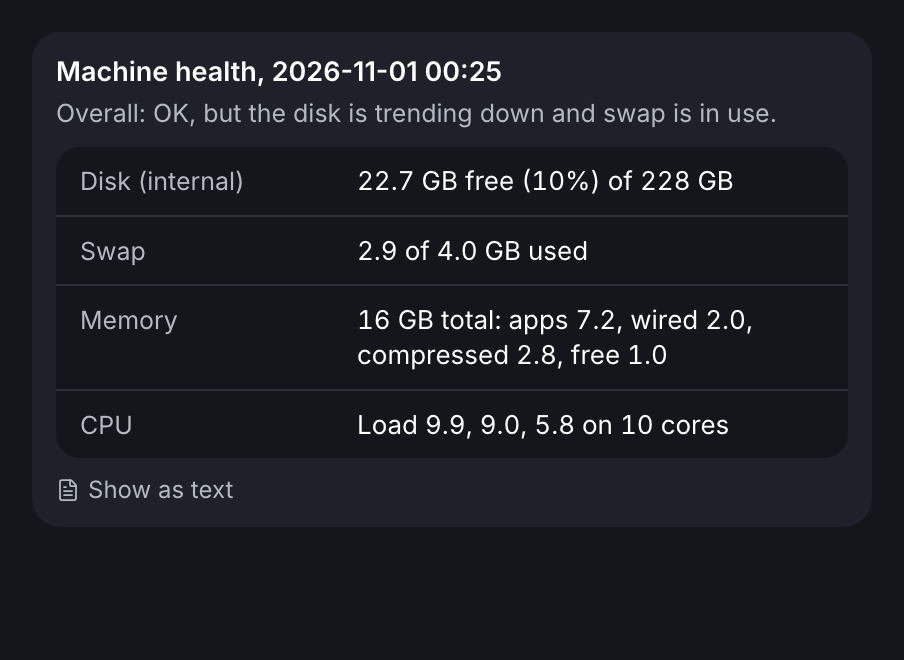
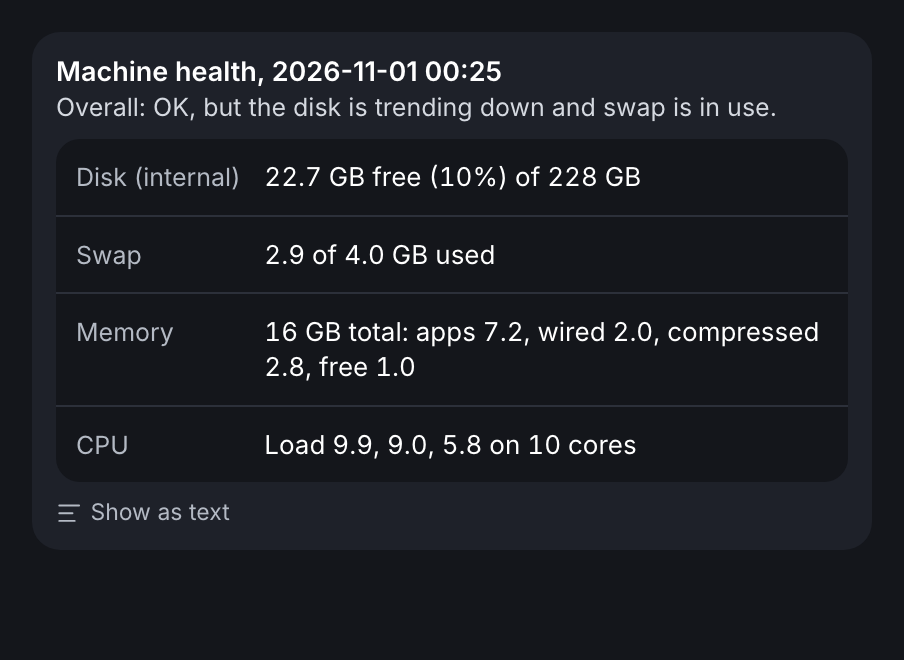
Result card v2: apply the designer's Info card fixes (fitted label column, 10 pt rows, secondary-ink sub line, plain link arrow, text.alignleft) on desktop and iOS

diff --git a/apps/ios/Kit/Sources/KithUI/Thread/RichCards.swift b/apps/ios/Kit/Sources/KithUI/Thread/RichCards.swift
@@ -434,51 +434,64 @@ struct ResultCard: View {
 
     private var info: some View {
         VStack(alignment: .leading, spacing: 8) {
-            VStack(alignment: .leading, spacing: 2) {
+            // 1 pt under the title, 7 pt above the group (the card's 8 less the 1 the sub line pulls back).
+            VStack(alignment: .leading, spacing: 1) {
                 Text(model.title).kithText(.secondary).fontWeight(.semibold).foregroundStyle(Palette.ink)
                 if !model.sub.isEmpty {
-                    Text(model.sub).font(.footnote).foregroundStyle(Palette.muted)
+                    Text(model.sub).font(.footnote).foregroundStyle(Palette.ink2)
                 }
             }
             .fixedSize(horizontal: false, vertical: true)
-            WhiteGroup {
-                ForEach(Array(model.rows.enumerated()), id: \.offset) { _, row in
-                    HStack(alignment: .firstTextBaseline, spacing: 12) {
-                        if !row.label.isEmpty {
+            .padding(.bottom, model.sub.isEmpty ? 0 : -1)
+            // The label column sizes to the longest label; dividers run edge to edge past the 10 pt side padding.
+            Grid(alignment: .leadingFirstTextBaseline, horizontalSpacing: 12, verticalSpacing: 0) {
+                ForEach(Array(model.rows.enumerated()), id: \.offset) { index, row in
+                    if index > 0 { Palette.line.frame(height: 1).padding(.horizontal, -10) }
+                    GridRow {
+                        if row.label.isEmpty {
+                            Text(row.value).kithText(.secondary).foregroundStyle(Palette.ink)
+                                .fixedSize(horizontal: false, vertical: true)
+                                .gridCellColumns(2)
+                                .frame(maxWidth: .infinity, alignment: .leading)
+                        } else {
                             Text(row.label).font(.footnote).foregroundStyle(Palette.muted)
-                                .frame(width: 92, alignment: .leading)
+                            Text(row.value).kithText(.secondary).foregroundStyle(Palette.ink)
+                                .fixedSize(horizontal: false, vertical: true)
+                                .frame(maxWidth: .infinity, alignment: .leading)
                         }
-                        Text(row.value).kithText(.secondary).foregroundStyle(Palette.ink)
-                            .frame(maxWidth: .infinity, alignment: .leading)
                     }
-                    .fixedSize(horizontal: false, vertical: true)
-                    .padding(.horizontal, 12)
-                    .padding(.vertical, 8)
+                    .padding(.vertical, 10)
                     .accessibilityElement(children: .combine)
                 }
                 ForEach(model.links) { link in
-                    Button { openURL(link.url) } label: {
-                        HStack(spacing: 8) {
-                            Text(link.label).kithText(.secondary).foregroundStyle(Palette.ink).lineLimit(1)
-                            Spacer(minLength: 0)
-                            Image(systemName: "arrow.up.right").font(.system(size: 9)).foregroundStyle(Palette.muted)
+                    Palette.line.frame(height: 1).padding(.horizontal, -10)
+                    GridRow {
+                        Button { openURL(link.url) } label: {
+                            HStack(spacing: 8) {
+                                Text(link.label).font(.footnote).foregroundStyle(Palette.ink2).lineLimit(1)
+                                Spacer(minLength: 0)
+                                Image(systemName: "arrow.up.right").font(.system(size: 11)).foregroundStyle(Palette.faint)
+                            }
+                            .padding(.vertical, 10)
+                            .contentShape(Rectangle())
                         }
-                        .padding(.horizontal, 12)
-                        .padding(.vertical, 8)
-                        .contentShape(Rectangle())
+                        .buttonStyle(.plain)
+                        .gridCellColumns(2)
+                        .accessibilityHint(link.url.host() ?? link.label)
                     }
-                    .buttonStyle(.plain)
-                    .accessibilityHint(link.url.host() ?? link.label)
                 }
             }
+            .padding(.horizontal, 10)
+            .frame(maxWidth: .infinity, alignment: .leading)
+            .background(Palette.background, in: RoundedRectangle(cornerRadius: 12, style: .continuous))
             Button(action: showText) {
                 HStack(spacing: 4) {
-                    Image(systemName: "doc.text").font(.system(size: 10))
-                    Text("Show as text").font(.caption)
+                    Image(systemName: "text.alignleft").font(.system(size: 11))
+                    Text("Show as text").font(.caption).fontWeight(.medium)
                 }
                 .foregroundStyle(Palette.muted)
-                .frame(minHeight: 28)
-                .contentShape(Rectangle())
+                // The tap area stays finger-sized without the 8 pt gap under the group growing.
+                .contentShape(Rectangle().inset(by: -8))
             }
             .buttonStyle(.plain)
         }

diff --git a/apps/desktop/src/renderer/views/thread/rich-card.css b/apps/desktop/src/renderer/views/thread/rich-card.css
@@ -299,18 +299,39 @@
   white-space: normal;
   overflow-wrap: anywhere;
 }
+.rc-card.info {
+  --rc-ink-2: #3a3d45;
+  --rc-faint: #b4b8c2;
+}
+@media (prefers-color-scheme: dark) {
+  .rc-card.info {
+    --rc-ink-2: #d5d9e0;
+    --rc-faint: #5b6170;
+  }
+}
+/* 1 pt under the title and 7 pt above the group, on top of the card's 8 pt gap. */
 .rc-sub {
-  margin-top: -4px;
-  color: var(--kith-muted);
+  margin: -7px 0 -1px;
+  color: var(--rc-ink-2);
   font-size: 12.5px;
   line-height: 1.35;
   overflow-wrap: anywhere;
 }
+/* The label column fits the card's longest label (52 pt up to 40% of the card); rows share it through subgrid. */
+.rc-info {
+  display: grid;
+  grid-template-columns: fit-content(40%) 1fr;
+  column-gap: 12px;
+  border-radius: 12px;
+  background: var(--kith-ground);
+  overflow: hidden;
+}
 .rc-info-row {
-  display: flex;
-  gap: 12px;
+  display: grid;
+  grid-column: 1 / -1;
+  grid-template-columns: subgrid;
   align-items: baseline;
-  padding: 8px 12px;
+  padding: 10px;
   font-size: 13px;
   line-height: 1.35;
   text-align: left;
@@ -319,25 +340,33 @@
   border-top: 1px solid var(--kith-line);
 }
 .rc-info-label {
-  flex: none;
-  width: 34%;
-  min-width: 84px;
+  min-width: 52px;
   color: var(--kith-muted);
   font-size: 12.5px;
   overflow-wrap: anywhere;
 }
 .rc-info-value {
-  flex: 1;
   min-width: 0;
   font-variant-numeric: tabular-nums;
   overflow-wrap: anywhere;
 }
+.rc-info-value.alone {
+  grid-column: 1 / -1;
+}
 .rc-info-link {
+  display: flex;
+  gap: 12px;
   align-items: center;
-  width: 100%;
+  justify-content: space-between;
 }
 .rc-info-link:hover {
   background: var(--kith-panel);
+}
+.rc-info-link .rc-info-value {
+  flex: 1;
+  color: var(--rc-ink-2);
+  font-size: 12.5px;
+  font-variant-numeric: normal;
 }
 .rc-as-text-link {
   display: inline-flex;
@@ -345,7 +374,7 @@
   align-items: center;
   align-self: flex-start;
   color: var(--kith-muted);
-  font: 12px / 1.3 var(--font-ui);
+  font: 500 11.5px / 1.3 var(--font-ui);
 }
 /* The Plan card (DESIGN.md "Plan"): a 4 pt bar in the agent pair, then steps that change in place. */
 .rc-mono {

diff --git a/apps/desktop/src/renderer/views/thread/RichCards.tsx b/apps/desktop/src/renderer/views/thread/RichCards.tsx
@@ -191,25 +191,25 @@ export function ResultCard({ card, showText }: { card: RichCard; showText: () =>
   if (!view) return null
   if (view.rows.length) {
     return (
-      <section className="rc-card" aria-label={view.title}>
+      <section className="rc-card info" aria-label={view.title}>
         <div className="rc-head"><span className="rc-name wrap">{view.title}</span></div>
         {view.sub ? <div className="rc-sub">{view.sub}</div> : null}
-        <div className="rc-group">
+        <div className="rc-info">
           {view.rows.map((r, i) => (
             <div key={i} className="rc-info-row">
               {r.label ? <span className="rc-info-label">{r.label}</span> : null}
-              <span className="rc-info-value">{r.value}</span>
+              <span className={r.label ? 'rc-info-value' : 'rc-info-value alone'}>{r.value}</span>
             </div>
           ))}
           {view.links.map((l) => (
             <button key={l.url} className="rc-info-row rc-info-link" title={l.url} onClick={() => window.kith.app.openExternal(l.url)}>
               <span className="rc-info-value">{l.label}</span>
-              <Icon name="arrow.up.right.square" size={11} color="var(--kith-muted)" />
+              <Icon name="arrow.up.right" size={11} color="var(--rc-faint)" />
             </button>
           ))}
         </div>
         <button className="rc-as-text-link" onClick={showText}>
-          <Icon name="doc.text" size={10} color="var(--kith-muted)" />
+          <Icon name="text.alignleft" size={11} color="var(--kith-muted)" />
           Show as text
         </button>
       </section>

diff --git a/apps/ios/Kit/Sources/KithKit/Design/Tokens.swift b/apps/ios/Kit/Sources/KithKit/Design/Tokens.swift
@@ -11,6 +11,10 @@ public extension Palette {
     static let muted = Color(light: 0x6B7280, dark: 0xB4BAC4)
     /// Secondary text over the sky.
     static let mutedOnSky = Color(light: 0x4B5160, dark: 0xC3C8D2)
+    /// Secondary ink: the Info card's sub line and link address (darker than muted).
+    static let ink2 = Color(light: 0x3A3D45, dark: 0xD5D9E0)
+    /// The Info card's link arrow.
+    static let faint = Color(light: 0xB4B8C2, dark: 0x5B6170)
     static let line = Color(light: 0xECEDF2, dark: 0x2C303A)
     static let panel = Color(light: 0xF6F6FA, dark: 0x1E2129)
     /// The lighter violet, for accent text and fills on dark grounds.

diff --git a/apps/desktop/src/renderer/components/icon-fallbacks.ts b/apps/desktop/src/renderer/components/icon-fallbacks.ts
@@ -33,6 +33,7 @@ const map: Record<string, IconNode> = {
   'arrow.triangle.2.circlepath': L.RefreshCw,
   'arrow.triangle.branch': L.GitBranch,
   'arrow.up': L.ArrowUp,
+  'arrow.up.right': L.ArrowUpRight,
   'arrow.up.right.square': L.SquareArrowOutUpRight,
   'arrowshape.turn.up.left': L.Reply,
   'apple.logo': appleLogo,
@@ -169,6 +170,7 @@ const map: Record<string, IconNode> = {
   'stop.circle': L.CircleStop,
   'stop.fill': L.Square,
   terminal: L.Terminal,
+  'text.alignleft': L.AlignLeft,
   'text.bubble': L.MessageSquareText,
   tray: L.Inbox,
   'tray.and.arrow.up': L.ArchiveRestore,

diff --git a/docs/design/DESIGN.md b/docs/design/DESIGN.md
@@ -262,10 +262,14 @@ a design decision). At most one card per reply. Boards: `docs/design/mocks/repli
 - **Plan** (report): title, "3 of 5" in mono, a 4 pt progress bar in the agent pair, steps updating in place (done =
   check, muted; now = spinner, semibold; next = ring, light). Replaces "done X" messages.
 - **Result** (report): what came out with its actions: icon tile, title, mono facts (#172 · 3 files · +84 / −12), a
-  green word for checks, one or two buttons (Open, Diff). Payload v2 draws the Info card (morecards.jpg panel 2): the
-  reply's heading, one sub line (muted), then a white group of read-only Key: value rows (label muted left, value
-  right, hairlines, no chevrons, at most five), a link row only if the reply had a link, "Show as text" bottom-left.
-  v1 (the mono facts above) still draws for old entries.
+  green word for checks, one or two buttons (Open, Diff). Payload v2 draws the **Info** card (morecards.jpg panel 2): a title and its facts from the
+  reply's heading and Key: value lines. Panel grey. Title Inter 600 13.5; one sub line 12.5 secondary ink `#3A3D45`
+  (not muted), 1 pt under the title, 7 pt above the group. White group, rows min 38 pt, padding 10 / 10, hairline
+  between rows; label column sized to the card's longest label (min 52, max ~40% of the card), 12 gap, label muted
+  12.5, value ink 13, tabular figures on values only; a row with no label draws its value across both columns. Link
+  row only if the reply had a link: address 12.5 secondary ink, plain arrow.up.right (11, faint `#B4B8C2`) at the
+  right, never a boxed arrow. "Show as text" 8 pt under the group, bottom left: text.alignleft icon + 500 11.5 muted;
+  same place on every card made from a reply. v1 (the mono facts above) still draws for old entries.
 - **Options** (asks): two or three choices, a picture each (96 pt), name + one line; "Tap one, or say what to change".
 - **Numbers** (report): one mono figure (26), one line of context, at most five ink bars with tabular figures, one row
   to go further. Never a dashboard.
